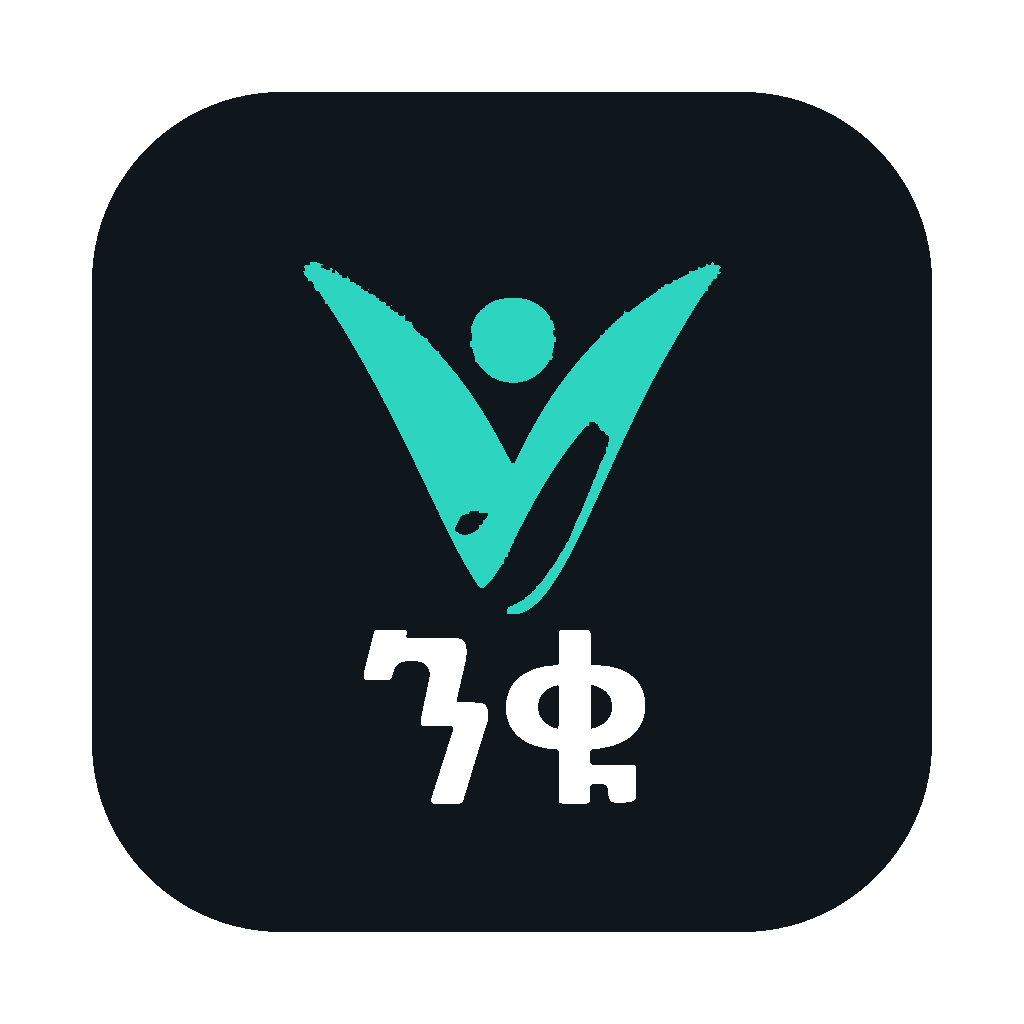
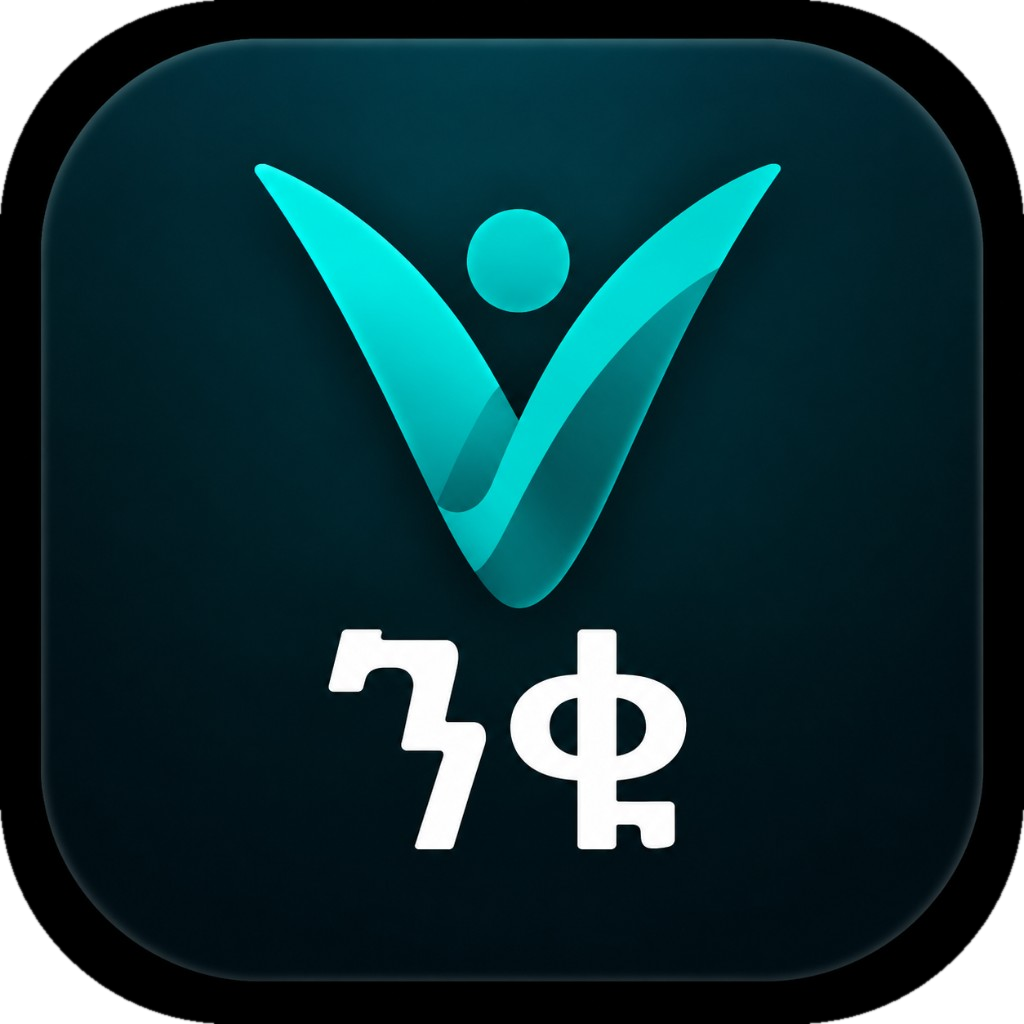
new changes19

diff --git a/src/components/auth/LoginBrandAside.jsx b/src/components/auth/LoginBrandAside.jsx
@@ -35,7 +35,7 @@ export default function LoginBrandAside() {
 
       <div className="relative z-10 flex flex-1 flex-col justify-between p-10 xl:p-14">
         <img
-          src="/brand-lockup-mark.png"
+          src="/brand-lockup-mark.png?v=restore"
           alt={t('app.name')}
           className="h-11 w-auto max-w-[12rem] object-contain object-left xl:h-12 xl:max-w-[13rem]"
         />

diff --git a/src/components/auth/LoginBrandPanel.jsx b/src/components/auth/LoginBrandPanel.jsx
@@ -9,7 +9,7 @@ export default function LoginBrandPanel() {
   return (
     <div className="mb-8 flex flex-col items-center text-center sm:mb-10">
       <img
-        src="/brand-lockup-mark.png"
+        src="/brand-lockup-mark.png?v=restore"
         alt="ንቁ"
         className="mb-4 h-16 w-auto max-w-[15rem] object-contain object-center sm:mb-5 sm:h-[4.75rem] sm:max-w-[17rem]"
       />

diff --git a/src/components/BrandLogo.jsx b/src/components/BrandLogo.jsx
@@ -13,7 +13,7 @@ export default function BrandLogo({
   const img =
     variant === 'icon' ? (
       <img
-        src="/brand-mark.png?v=blend"
+        src="/brand-mark.png?v=restore"
         alt="ንቁ"
         className={`h-9 w-9 object-contain ${className}`}
       />
